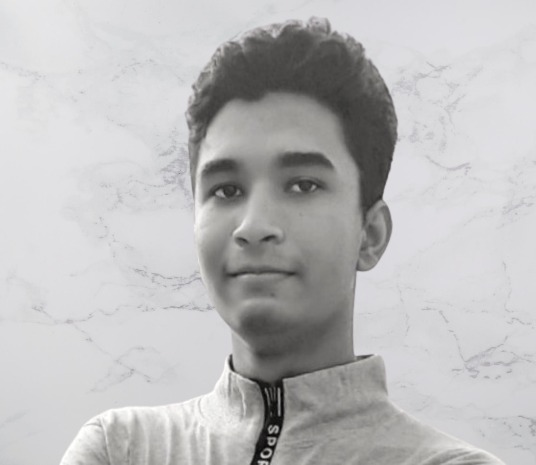
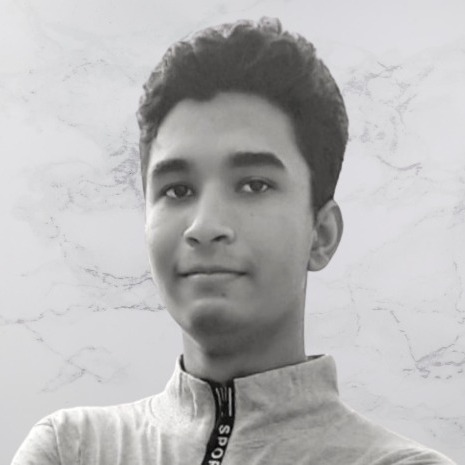
restructured cards

diff --git a/about.html b/about.html
@@ -64,18 +64,20 @@
                 </center>
             </div>
             <div class="ourTgrid straight">
-                <div class="ourTgridBox" id="pic1"></div>
-                <div class="ourTgridBox" id="pic2"></div>
-                <div class="ourTgridBox info">
-                    <h3>Naveen Singh bhandari</h3>
-                    <h3>Father</h3>
-                    <p>Lorem ipsum dolor sit, amet consectetur adipisicing elit. Voluptate iste aperiam odio culpa minus
+                <div class="info">
+                    <img src="assets/img/n.jpeg" alt="" class="ourTgridBox" id="pic1">
+                    <h2 class="prop-name" style="color: #606060;">Naveen Singh</h2>
+                    <h3>Gonii Staff</h3>
+                    <p class="team-about">Lorem ipsum dolor sit, amet consectetur adipisicing elit. Voluptate iste
+                        aperiam odio culpa minus
                         enim veniam nisi magnam quasi soluta.</p>
                 </div>
-                <div class="ourTgridBox info">
-                    <h3>Purshotam Singh </h3>
-                    <h3>Son</h3>
-                    <p>Lorem ipsum dolor sit, amet consectetur adipisicing elit. Voluptate iste aperiam odio culpa minus
+                <div class="info">
+                    <img src="assets/img/p.jpeg" alt="" class="ourTgridBox" id="pic2">
+                    <h2 class="prop-name" style="color: #606060;">Purshotam Singh </h2>
+                    <h3>Gonii Staff</h3>
+                    <p class="team-about">Lorem ipsum dolor sit, amet consectetur adipisicing elit. Voluptate iste
+                        aperiam odio culpa minus
                         enim veniam nisi magnam quasi soluta.</p>
                 </div>
             </div>

diff --git a/assets/css/aboutUs1.css b/assets/css/aboutUs1.css
@@ -1,4 +1,3 @@
-
 body{
     padding: 0;
     margin: 0;
@@ -15,8 +14,8 @@ body{
 .mainBox{
     transform: skewY(-8deg);
     margin-top: -150px;
-    height: 700px;
     text-align: center;
+    height: 650px;
 }
 .straight{
     transform: skewY(8deg);
@@ -64,44 +63,34 @@ body{
 .break-line{
     width: auto;
     height: 3px;
-    background-color: #36e936;
+    background-color: #1ae954;
+    border: none;
 }
 
 #ourT{
-    height: 750px;
+    height: 900px;
     background-color: lightgrey;
 }
 
 .ourTgrid{
     display: grid;
-    grid-template-columns: 250px 250px;
-    grid-column-gap: 3rem;
+    grid-template-columns: auto auto;
+    gap: 3rem;
     justify-content: center;
     margin-top: 50px;
 }
 .ourTgridBox{
     height: 30vh;
-}
-
-#pic1{
-
-    background-image: url('../img/n.jpeg');
     background-size: cover;
     border-radius: 120px;
-    border: 2px solid #47cf47;
-    box-shadow: 0 0 4px 3px green;
 }
-#pic2{
-    background-image: url('../img/p.jpeg');
-    background-size: cover;
-    border-radius: 120px;
-    border: 2px solid #47cf47;
-    box-shadow: 0 0 4px 3px green;
-}
+
 .info{
-    border-top-left-radius: 20px;
-    border-bottom-right-radius: 20px;
-    border: 4px solid #47cf47;
+    padding: 18px;
+    width: 300px;
+    border-radius: 16px 0px 16px 0px;
+    box-shadow: 2px 2px 8px 0px grey;
+    background-color: #ebebeb;
 }
 
 #ourS{
@@ -125,8 +114,6 @@ body{
     margin-top: 100px;
     display: flex;
     justify-content: center;
-
-    
     column-gap: 1rem;
 }
 .stickersbox{
@@ -152,4 +139,9 @@ body{
     background-image: url('../img/pic6.jpg');
     background-repeat: no-repeat;
     background-size: contain;
+}
+
+.team-about{
+    padding: 15px;
+    color: #4e4e4e;
 }
